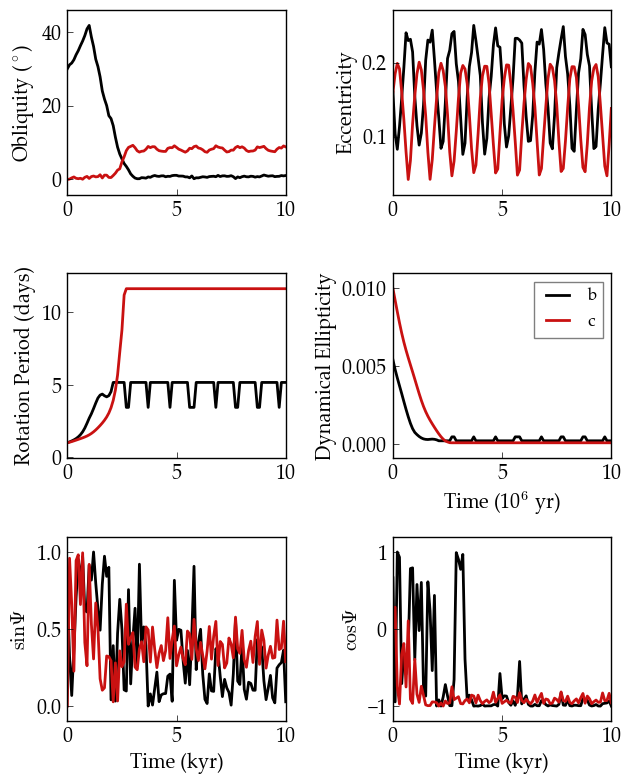
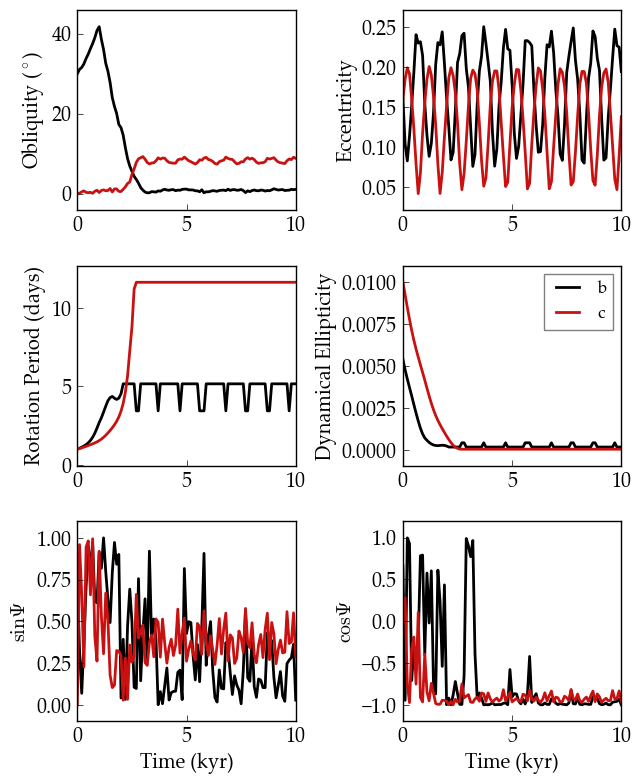
Removed extraneous xlabel in CassiniMulti.png.
Added run command to examples/CassiniMulti/makeplot.py.

diff --git a/examples/CassiniMulti/makeplot.py b/examples/CassiniMulti/makeplot.py
@@ -3,6 +3,7 @@ import matplotlib.pyplot as plt
 import vplot as vpl
 import sys
 import scipy.signal as sig
+import subprocess
 
 # Check correct number of arguments
 if (len(sys.argv) != 2):
@@ -14,6 +15,7 @@ if (sys.argv[1] != 'pdf' and sys.argv[1] != 'png'):
     print('Options are: pdf, png')
     exit(1)
 
+subprocess.call(['vplanet', 'vpl.in'])
 out = vpl.GetOutput()
 
 time = out.TGstar.Time/1e3
@@ -37,7 +39,6 @@ plt.ylabel('Rotation Period (days)')
 plt.subplot(3,2,4)
 plt.plot(time,out.TGb.DynEllip,color='k',label='b')
 plt.plot(time,out.TGc.DynEllip,color=vpl.colors.red,label='c')
-plt.xlabel('Time (10$^6$ yr)')
 plt.ylabel('Dynamical Ellipticity')
 plt.legend(loc="upper right", fontsize=12, ncol=1)
 
